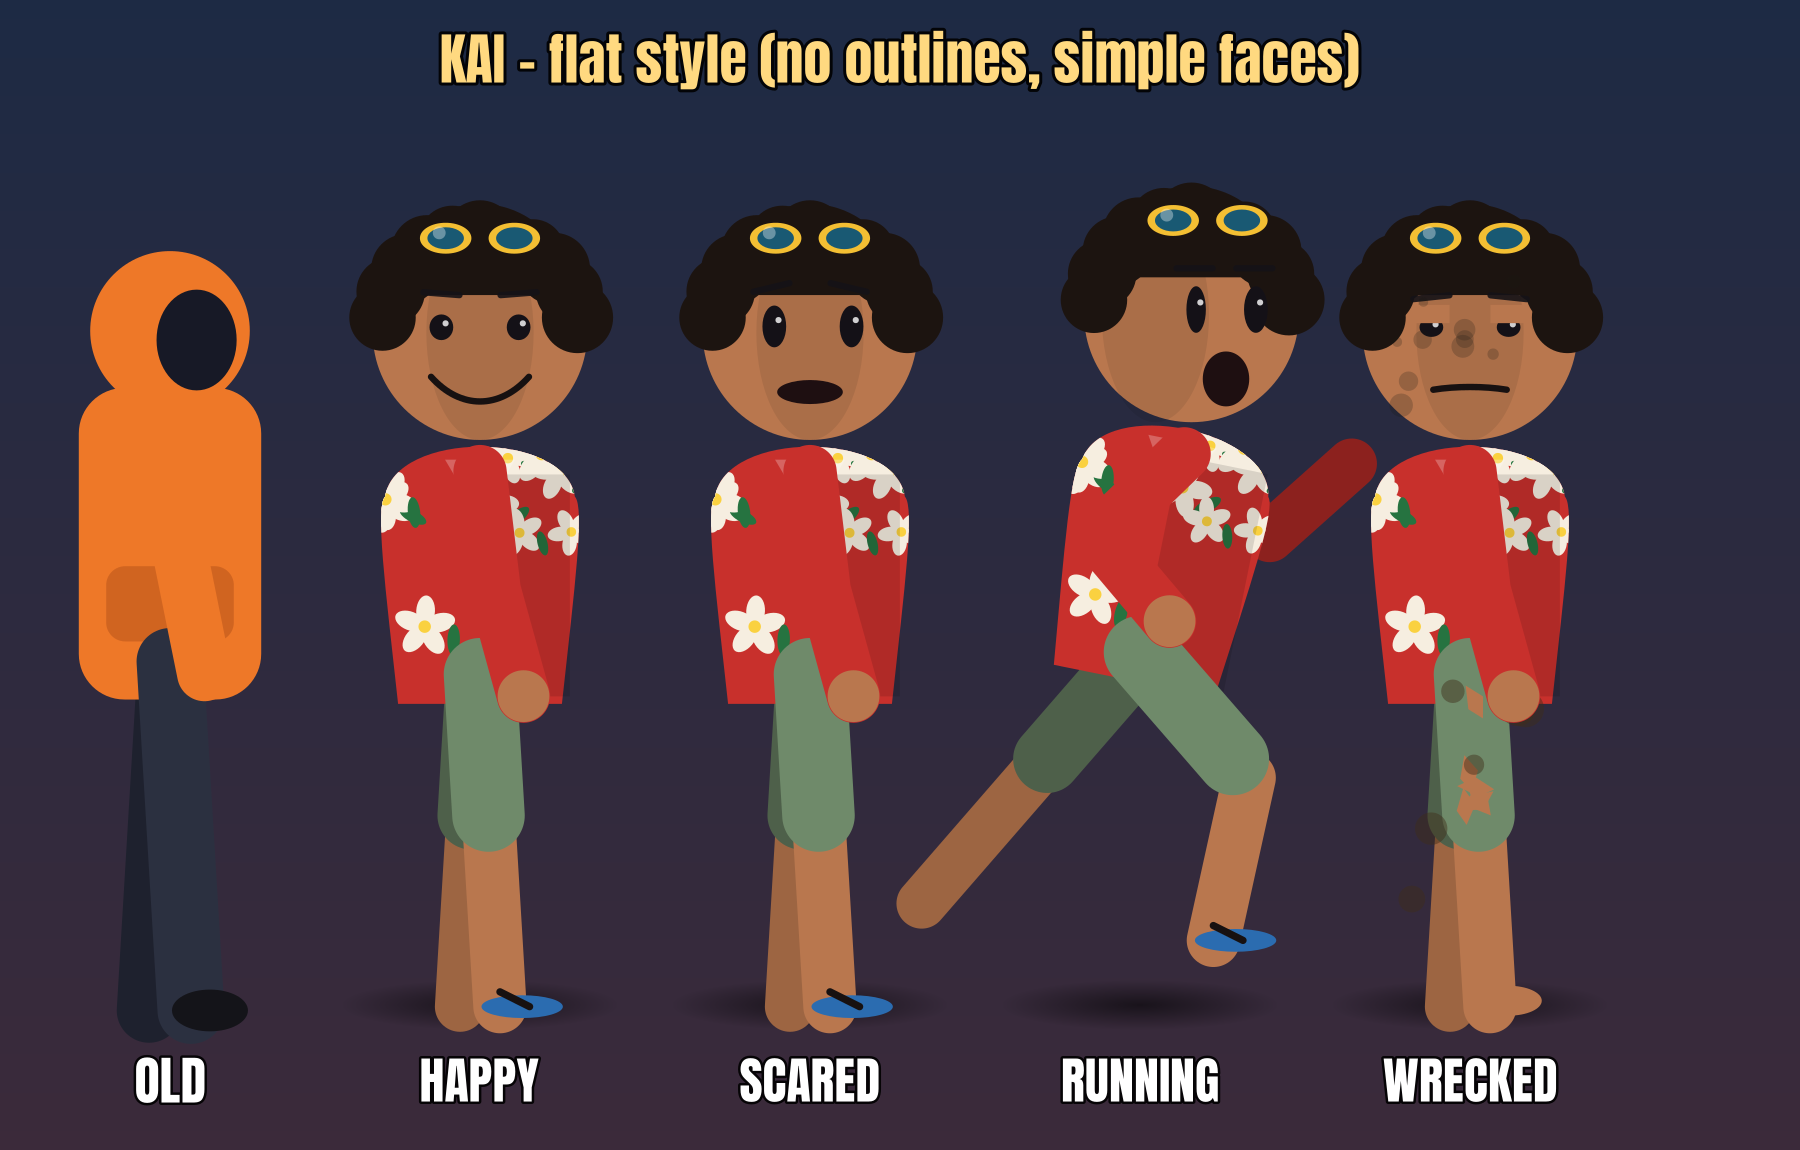
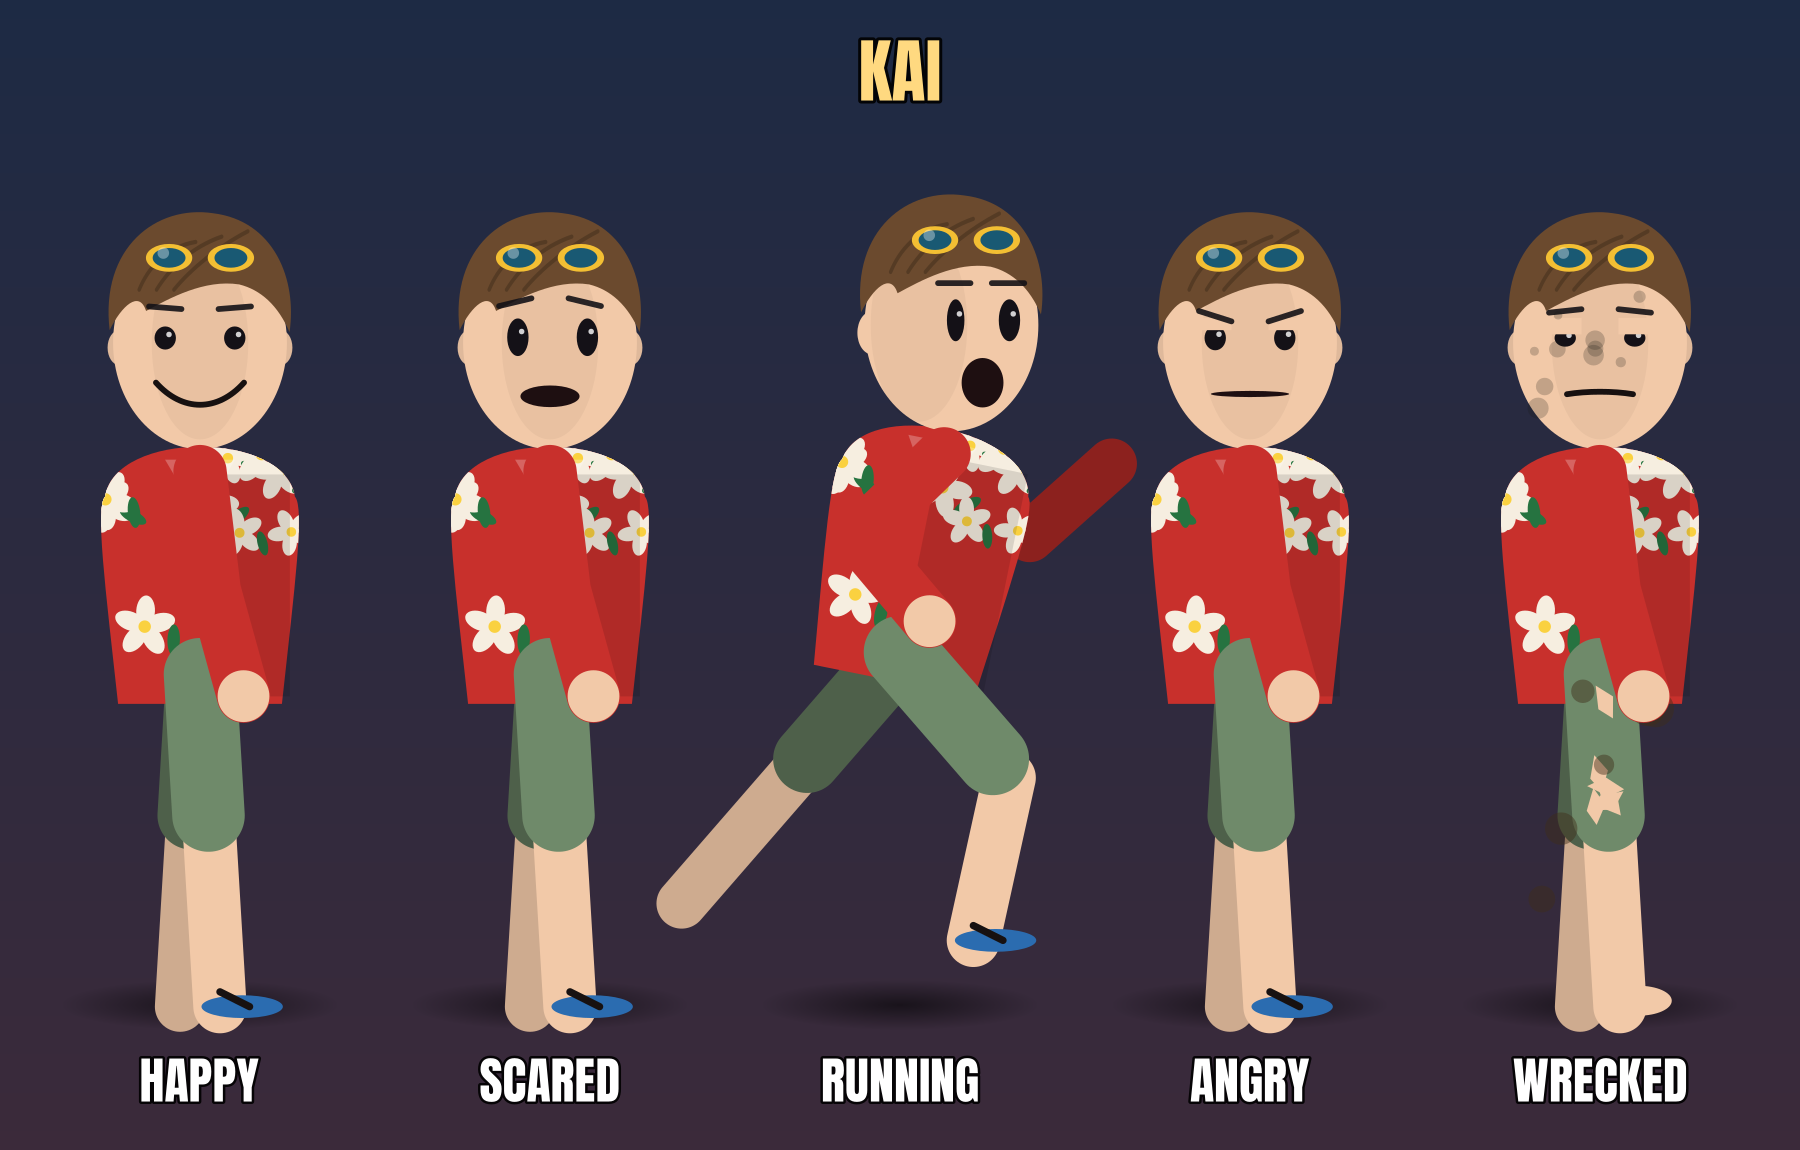
Redesign Kai: basic white American guy, side-swept brown hair, smaller head, ears; keeps the shirt
Claude-Session: https://claude.ai/code/session_01JdKjmJzidvRx8GFVqJ9sUs

diff --git a/src/anim/rig.py b/src/anim/rig.py
@@ -257,7 +257,7 @@ class Character:
                 _rgb(ctx, OUTLINE); ctx.set_line_width(lw * 0.9)
                 ctx.move_to(foot[0], foot[1] - 0.02 * s); ctx.line_to(foot[0] + f * 0.04 * s, foot[1]); ctx.stroke()
         # head
-        hr = P["head"] * s
+        hr = P["head"] * s * (0.9 if self.style == "flat" and self.age == "adult" else 1.0)
         neck = (sh[0], sh[1] - 0.02 * s)
         hx = neck[0] + f * math.sin(lean) * 0.05 * s + head_turn * 0.02 * s
         hy = neck[1] - hr * 0.95
@@ -286,13 +286,17 @@ class Character:
         sx, sy = {"round": (1.0, 1.0), "oval": (0.9, 1.1), "square": (1.0, 1.02)}[self.face_shape]
         def facepath():
             ctx.save(); ctx.translate(hx, hy); ctx.scale(sx, sy); ctx.arc(0, 0, r, 0, 2 * math.pi); ctx.restore()
+        if face == 0 and self.style == "flat" and self.hair_style not in ("hood", "long"):
+            for sgn in (-1, 1):
+                _rgb(ctx, _shade(skin, 0.92)); ctx.save(); ctx.translate(hx + sgn * r * 0.93 * sx, hy + r * 0.05)
+                ctx.scale(0.5, 0.75); ctx.arc(0, 0, r * 0.24, 0, 2 * math.pi); ctx.restore(); ctx.fill()
         self._blob(ctx, facepath, skin, lw)
         # ear on the far side from the features
         if face != 0:
             self._blob(ctx, lambda: (ctx.save(), ctx.translate(hx - face * r * 0.82, hy + r * 0.08), ctx.scale(0.55, 0.8),
                                      ctx.arc(0, 0, r * 0.28, 0, 2 * math.pi), ctx.restore()), skin, lw)
         # cheek shading
-        _rgb(ctx, (0, 0, 0), 0.08)
+        _rgb(ctx, (0, 0, 0), 0.04 if self.style == "flat" else 0.08)
         ctx.save(); ctx.translate(hx - side * r * 1.2, hy); ctx.scale(0.5, 1); ctx.arc(0, 0, r, 0, 2 * math.pi); ctx.restore(); ctx.fill()
         # hair on top
         hs = self.hair_style
@@ -302,14 +306,24 @@ class Character:
                 a = math.pi * (1.05 + 0.9 * k / 10)
                 self._blob(ctx, lambda a=a: ctx.arc(hx + math.cos(a) * r * 0.92, hy + math.sin(a) * r * 0.9, r * rr.uniform(0.26, 0.34), 0, 2 * math.pi), hair, lw)
             _rgb(ctx, hair); ctx.arc(hx, hy - r * 0.35, r * 0.85, math.pi, 2 * math.pi); ctx.fill()
-        if self.shades_on_head:
-            for ex in (-0.32, 0.32):
-                self._blob(ctx, lambda ex=ex: (ctx.save(), ctx.translate(hx + ex * r + (face or 0) * r * 0.15, hy - r * 0.88),
-                                               ctx.scale(1.0, 0.6), ctx.arc(0, 0, r * 0.24, 0, 2 * math.pi), ctx.restore()), (0.95, 0.75, 0.2), lw * 1.2)
-                _rgb(ctx, (0.1, 0.35, 0.45)); ctx.save(); ctx.translate(hx + ex * r + (face or 0) * r * 0.15, hy - r * 0.88)
-                ctx.scale(1.0, 0.6); ctx.arc(0, 0, r * 0.17, 0, 2 * math.pi); ctx.restore(); ctx.fill()
-            _rgb(ctx, (1, 1, 1), 0.35); ctx.arc(hx - r * 0.38 + (face or 0) * r * 0.15, hy - r * 0.93, r * 0.06, 0, 2 * math.pi); ctx.fill()
-        if hs in ("short", "long", "ponytail", "bun", "buzz"):
+        if hs == "short" and self.style == "flat":        # side-swept everyday haircut
+            fs = face or 1
+            ctx.save(); ctx.translate(hx, hy); ctx.scale(sx * fs, sy)
+            _rgb(ctx, hair)
+            ctx.move_to(-r * 1.04, -r * 0.12)
+            ctx.curve_to(-r * 1.15, -r * 0.9, -r * 0.5, -r * 1.3, r * 0.15, -r * 1.22)      # crown, a little volume
+            ctx.curve_to(r * 0.85, -r * 1.15, r * 1.12, -r * 0.6, r * 1.03, -r * 0.1)
+            ctx.curve_to(r * 0.9, -r * 0.35, r * 0.7, -r * 0.5, r * 0.45, -r * 0.55)         # hairline
+            ctx.curve_to(r * 0.05, -r * 0.6, -r * 0.35, -r * 0.42, -r * 0.62, -r * 0.3)       # fringe swoops down to one side
+            ctx.curve_to(-r * 0.7, -r * 0.5, -r * 0.9, -r * 0.35, -r * 1.04, -r * 0.12)
+            ctx.close_path(); ctx.fill()
+            _rgb(ctx, _shade(hair, 0.8))                                                     # parting / texture strands
+            ctx.set_line_width(max(1.5, r * 0.04)); ctx.set_line_cap(cairo.LINE_CAP_ROUND)
+            for k in range(3):
+                ctx.move_to(r * (0.55 - 0.3 * k), -r * (1.05 - 0.05 * k)); ctx.curve_to(r * (0.2 - 0.3 * k), -r * 0.9, r * (-0.1 - 0.25 * k), -r * 0.7, r * (-0.3 - 0.2 * k), -r * 0.5)
+                ctx.stroke()
+            ctx.restore()
+        elif hs in ("short", "long", "ponytail", "bun", "buzz"):
             def cap():
                 ctx.save(); ctx.translate(hx, hy); ctx.scale(sx, sy)
                 ctx.arc(0, 0, r * 1.04, math.pi * 1.02, math.pi * 1.98)
@@ -328,6 +342,13 @@ class Character:
         elif hs == "hood":
             _rgb(ctx, _col(self.top)); ctx.set_line_width(r * 0.28)
             ctx.arc(hx, hy + r * 0.05, r * 1.08, math.pi * 1.05, math.pi * 1.95); ctx.stroke()
+        if self.shades_on_head:
+            for ex in (-0.32, 0.32):
+                self._blob(ctx, lambda ex=ex: (ctx.save(), ctx.translate(hx + ex * r + (face or 0) * r * 0.15, hy - r * 0.88),
+                                               ctx.scale(1.0, 0.6), ctx.arc(0, 0, r * 0.24, 0, 2 * math.pi), ctx.restore()), (0.95, 0.75, 0.2), lw * 1.2)
+                _rgb(ctx, (0.1, 0.35, 0.45)); ctx.save(); ctx.translate(hx + ex * r + (face or 0) * r * 0.15, hy - r * 0.88)
+                ctx.scale(1.0, 0.6); ctx.arc(0, 0, r * 0.17, 0, 2 * math.pi); ctx.restore(); ctx.fill()
+            _rgb(ctx, (1, 1, 1), 0.35); ctx.arc(hx - r * 0.38 + (face or 0) * r * 0.15, hy - r * 0.93, r * 0.06, 0, 2 * math.pi); ctx.fill()
         fx = hx + side * r
         # eyes
         blink = blink_amount(t, self.seed)

diff --git a/src/anim/cast.py b/src/anim/cast.py
@@ -1,7 +1,7 @@
 """Permanent cast of Last Light Stories. Import these instead of redefining them per story.
 
 KAI - the channel's recurring hero.
-  From Hawaii; surf-shop worker; sunny, kind, a little clumsy, never gives up.
+  Regular white American guy who always wears his lucky Hawaiian shirt; works at a surf shop; sunny, kind, a little clumsy, never gives up.
   Catchphrase: "Could be worse." (it always gets worse)
   RUNNING GAG: every story wrecks him (torn shorts, a lost flip-flop, soot, mud, singed hair)
   but his red aloha shirt ALWAYS comes out spotless. Never draw damage on the shirt.
@@ -12,10 +12,10 @@ sys.path.insert(0, str(pathlib.Path(__file__).parent))
 from rig import Character
 
 KAI = Character(
-    name="Kai", age="adult", skin="#b9774e", hair="#1c1410", hair_style="curly",
+    name="Kai", age="adult", skin="#f2c9a8", hair="#6b4a2e", hair_style="short",
     top="#c8302c", pattern="hibiscus", pattern_col="#f6eee0",
     pants="#6f8a6a", shorts=True, footwear="flipflops", shoes="#2b6cb0",
-    face_shape="round", eyes="round", brows=0.85, stubble=True, shades_on_head=True, seed=7.0,
+    face_shape="oval", eyes="round", brows=0.85, stubble=False, shades_on_head=True, seed=7.0,
 )
 
 if __name__ == "__main__":

diff --git a/launch/STUDIO.md b/launch/STUDIO.md
@@ -12,7 +12,7 @@ Read with launch/FORMULA.md (story formula + titles), launch/CINEMA.md (camera, 
 - Fully automated: no approval needed; send the owner an FYI.
 
 ## Kai - the channel's recurring hero (src/anim/cast.py KAI)
-- Every story stars Kai: from Hawaii, works at a surf shop, sunny, kind, a little clumsy, never gives up.
+- Every story stars Kai: a regular, basic white American guy (short brown side-swept hair, fair skin) in his lucky red Hawaiian shirt; works at a surf shop, sunny, kind, a little clumsy, never gives up.
   Catchphrase "Could be worse." - and then it gets worse. He is the "ordinary person" of the formula;
   each story still gives him a new companion and a new trap (one place) and a real survival rule.
 - RUNNING GAG: every story wrecks him (torn shorts via torn=, dirt=, soot=, lost_shoe=, singed hair) but his
